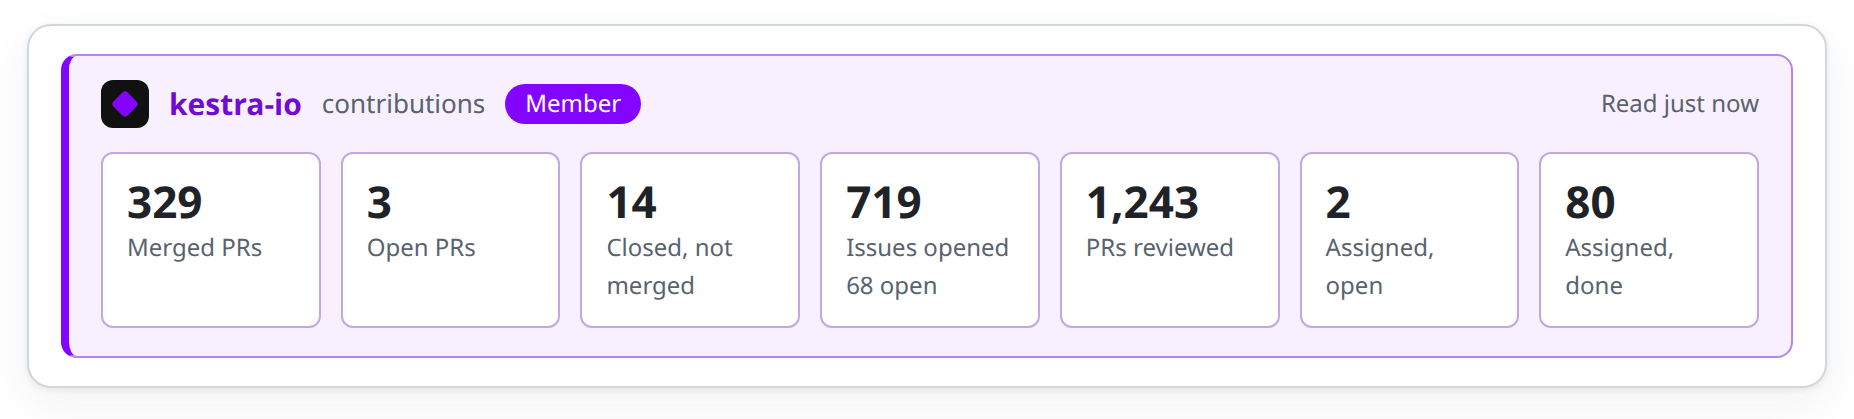
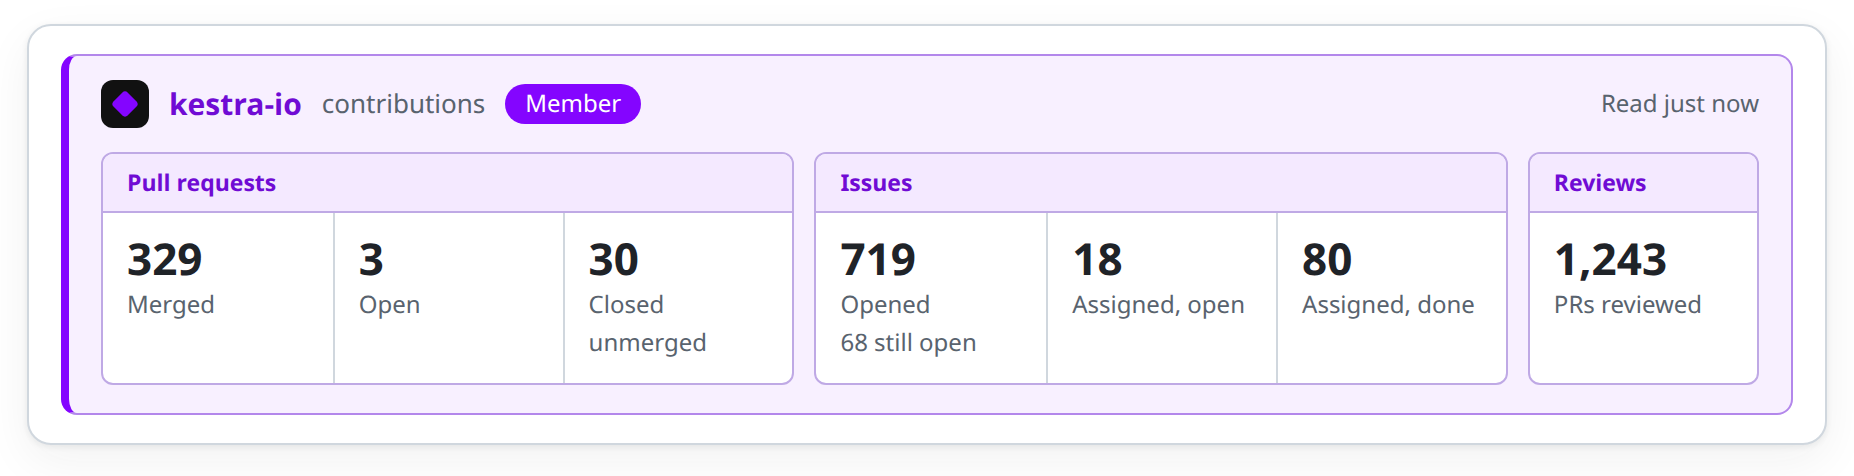
fix(profiles): group the profile panel's numbers into pull requests, issues and reviews
Seven tiles in a row did not say what each number counted, and a label such as closed, not merged meant nothing without knowing it was about the person's pull requests.

- Group the numbers under Pull requests, Issues and Reviews, each in a box with its own heading, sized by how many tiles it holds
- Shorten the labels to what is left once the group says the rest, and add a tooltip to every tile saying exactly what it counts
- Say still open under the issues a person opened
- Update the site mock-up, the example image, the README and the changelog

diff --git a/docs/index.html b/docs/index.html
@@ -358,11 +358,14 @@
     .mock-profile .sb { color: var(--fg-muted); }
     .mock-profile .tg { padding: 0 10px; border-radius: 9999px; background: var(--b); color: #fff; font-size: 12px; font-weight: 500; line-height: 20px; }
     .mock-profile .ag { margin-left: auto; font-size: 12px; color: var(--fg-muted); }
-    .mock-profile .st { display: grid; grid-template-columns: repeat(7, minmax(0, 1fr)); gap: 10px; margin-top: 12px; }
-    .mock-profile .tl { padding: 10px 12px; border: 1px solid color-mix(in srgb, var(--b) 22%, var(--border)); border-radius: 6px; background: var(--bg-card); }
+    .mock-profile .st { display: flex; flex-wrap: wrap; gap: 10px; margin-top: 12px; }
+    .mock-profile .gr { display: flex; flex-direction: column; flex: var(--n) 1 calc(var(--n) * 100px); min-width: 0; border: 1px solid color-mix(in srgb, var(--b) 22%, var(--border)); border-radius: 6px; background: var(--bg-card); overflow: hidden; }
+    .mock-profile .gh2 { padding: 5px 12px; border-bottom: 1px solid color-mix(in srgb, var(--b) 22%, var(--border)); background: color-mix(in srgb, var(--b) 9%, var(--bg-card)); font-size: 11.5px; font-weight: 600; color: color-mix(in srgb, var(--b) 80%, var(--fg)); }
+    .mock-profile .ts { flex: 1; display: grid; grid-template-columns: repeat(var(--n), minmax(0, 1fr)); }
+    .mock-profile .tl { padding: 9px 12px 10px; }
+    .mock-profile .tl + .tl { border-left: 1px solid var(--border); }
     .mock-profile .nm { display: block; font-size: 22px; font-weight: 600; line-height: 1.25; font-variant-numeric: tabular-nums; }
     .mock-profile .lb { display: block; font-size: 12px; color: var(--fg-muted); }
-    .mock-profile .tl.z .nm { color: var(--fg-muted); font-weight: 400; }
     .mock-omni { padding: 8px 0; overflow: hidden; }
     .mock-omni .bar { display: flex; align-items: center; gap: 10px; margin: 0 8px 6px; padding: 7px 12px; border-radius: 9999px; background: var(--bg-muted); font-size: 14px; }
     .mock-omni .kw { padding: 2px 10px; border-radius: 9999px; background: var(--info-bg); color: var(--accent); font-size: 12.5px; font-weight: 600; white-space: nowrap; }
@@ -583,12 +586,14 @@
       <p class="example-caption">The card belongs to the third row, opened by pressing its button, and priya-s is a member of the organization. The limit is 1 here, so the amber count says four issues are assigned and three pull requests are open; it fills in when that second number is zero.</p>
 
       <h3 style="margin-top:28px">Profile panel</h3>
-      <p class="muted" style="font-size:14px">At the top of a person's profile, a panel for each organization you name, in that organization's colours where it has some. It shows what the person has done there: pull requests merged, open and closed without merging, issues opened and how many are still open, pull requests reviewed, and issues assigned to them, open and done, each number linking to the matching GitHub search. A status beside the name says whether they are a member of the organization, a regular contributor or a contributor. It is read once per person and organization when the profile opens, in one request, and kept until the tab is closed. Off by default; name the organizations in the settings.</p>
+      <p class="muted" style="font-size:14px">At the top of a person's profile, a panel for each organization you name, in that organization's colours where it has some. It shows what the person has done there: in three groups, pull requests (merged, open, closed unmerged), issues (opened with how many are still open, assigned and open, assigned and done) and reviews, each number linking to the matching GitHub search. A status beside the name says whether they are a member of the organization, a regular contributor or a contributor. It is read once per person and organization when the profile opens, in one request, and kept until the tab is closed. Off by default; name the organizations in the settings.</p>
       <div class="panel gh-card mock-profile" id="ex-profile" style="max-width:900px;padding:14px 16px">
         <div class="org">
           <div class="hd"><span class="lg"><i></i></span><span class="ti">kestra-io</span><span class="sb">contributions</span><span class="tg">Member</span><span class="ag">Read just now</span></div>
           <div class="st">
-            <div class="tl"><span class="nm">329</span><span class="lb">Merged PRs</span></div><div class="tl"><span class="nm">3</span><span class="lb">Open PRs</span></div><div class="tl"><span class="nm">14</span><span class="lb">Closed, not merged</span></div><div class="tl"><span class="nm">719</span><span class="lb">Issues opened</span><span class="lb">68 open</span></div><div class="tl"><span class="nm">1,243</span><span class="lb">PRs reviewed</span></div><div class="tl"><span class="nm">2</span><span class="lb">Assigned, open</span></div><div class="tl"><span class="nm">80</span><span class="lb">Assigned, done</span></div>
+            <div class="gr" style="--n:3"><div class="gh2">Pull requests</div><div class="ts" style="--n:3"><div class="tl"><span class="nm">329</span><span class="lb">Merged</span></div><div class="tl"><span class="nm">3</span><span class="lb">Open</span></div><div class="tl"><span class="nm">30</span><span class="lb">Closed unmerged</span></div></div></div>
+            <div class="gr" style="--n:3"><div class="gh2">Issues</div><div class="ts" style="--n:3"><div class="tl"><span class="nm">719</span><span class="lb">Opened</span><span class="lb">68 still open</span></div><div class="tl"><span class="nm">18</span><span class="lb">Assigned, open</span></div><div class="tl"><span class="nm">80</span><span class="lb">Assigned, done</span></div></div></div>
+            <div class="gr" style="--n:1"><div class="gh2">Reviews</div><div class="ts" style="--n:1"><div class="tl"><span class="nm">1,243</span><span class="lb">PRs reviewed</span></div></div></div>
           </div>
         </div>
       </div>

diff --git a/content.js b/content.js
@@ -1366,15 +1366,23 @@
   // Kept for as long as the tab is open, like the contributor reads: "org/login" -> { at, data, error }.
   const profileCache = new Map();
   const profilePending = new Map();
-  // The tiles: label, key of the answer, the terms behind the number, and the note under it.
-  const PROFILE_TILES = [
-    ["Merged PRs", "merged", (l) => `is:pr is:merged author:${l}`],
-    ["Open PRs", "open", (l) => `is:pr is:open author:${l}`],
-    ["Closed, not merged", "closed", (l) => `is:pr is:closed is:unmerged author:${l}`],
-    ["Issues opened", "issues", (l) => `is:issue author:${l}`],
-    ["PRs reviewed", "reviewed", (l) => `is:pr reviewed-by:${l} -author:${l}`],
-    ["Assigned, open", "assignedOpen", (l) => `is:issue is:open assignee:${l}`],
-    ["Assigned, done", "assignedDone", (l) => `is:issue is:closed reason:completed assignee:${l}`]
+  // The numbers come in three groups, so each reads as part of one question: what they did with pull
+  // requests, what they did with issues, and what they reviewed. A tile is label, key of the answer, what
+  // it counts for the tooltip, and the terms behind the number.
+  const PROFILE_GROUPS = [
+    ["Pull requests", [
+      ["Merged", "merged", "Pull requests they opened that were merged", (l) => `is:pr is:merged author:${l}`],
+      ["Open", "open", "Pull requests they opened that are still open", (l) => `is:pr is:open author:${l}`],
+      ["Closed unmerged", "closed", "Pull requests they opened that were closed without being merged", (l) => `is:pr is:closed is:unmerged author:${l}`]
+    ]],
+    ["Issues", [
+      ["Opened", "issues", "Issues they opened", (l) => `is:issue author:${l}`],
+      ["Assigned, open", "assignedOpen", "Issues assigned to them that are still open", (l) => `is:issue is:open assignee:${l}`],
+      ["Assigned, done", "assignedDone", "Issues assigned to them that were closed as completed", (l) => `is:issue is:closed reason:completed assignee:${l}`]
+    ]],
+    ["Reviews", [
+      ["PRs reviewed", "reviewed", "Pull requests by other people that they reviewed", (l) => `is:pr reviewed-by:${l} -author:${l}`]
+    ]]
   ];
 
   function profileOrgs() {
@@ -1493,33 +1501,46 @@
       return;
     }
 
-    const grid = document.createElement("div");
-    grid.className = "gsf-profile-stats";
-    for (const [label, key, terms] of PROFILE_TILES) {
-      const value = entry.data[key];
-      const tile = document.createElement("a");
-      tile.className = "gsf-profile-tile";
-      tile.href = profileUrl(org, terms(login));
-      tile.target = "_blank";
-      tile.rel = "noopener";
-      if (!value) tile.dataset.zero = "1";
-      const number = document.createElement("span");
-      number.className = "gsf-profile-num";
-      number.textContent = value === null || value === undefined ? "-" : value.toLocaleString();
-      const name = document.createElement("span");
-      name.className = "gsf-profile-label";
-      name.textContent = label;
-      tile.append(number, name);
-      // Of the issues opened, how many are still open.
-      if (key === "issues" && entry.data.issuesOpen !== null && entry.data.issuesOpen !== undefined) {
-        const note = document.createElement("span");
-        note.className = "gsf-profile-label";
-        note.textContent = `${entry.data.issuesOpen.toLocaleString()} open`;
-        tile.append(note);
+    const stats = document.createElement("div");
+    stats.className = "gsf-profile-stats";
+    for (const [title, tiles] of PROFILE_GROUPS) {
+      const group = document.createElement("div");
+      group.className = "gsf-profile-group";
+      group.style.setProperty("--n", String(tiles.length));
+      const heading = document.createElement("div");
+      heading.className = "gsf-profile-grouphead";
+      heading.textContent = title;
+      const row = document.createElement("div");
+      row.className = "gsf-profile-tiles";
+      for (const [label, key, what, terms] of tiles) {
+        const value = entry.data[key];
+        const tile = document.createElement("a");
+        tile.className = "gsf-profile-tile";
+        tile.href = profileUrl(org, terms(login));
+        tile.target = "_blank";
+        tile.rel = "noopener";
+        tile.title = what;
+        if (!value) tile.dataset.zero = "1";
+        const number = document.createElement("span");
+        number.className = "gsf-profile-num";
+        number.textContent = value === null || value === undefined ? "-" : value.toLocaleString();
+        const name = document.createElement("span");
+        name.className = "gsf-profile-label";
+        name.textContent = label;
+        tile.append(number, name);
+        // Of the issues opened, how many are still open.
+        if (key === "issues" && entry.data.issuesOpen !== null && entry.data.issuesOpen !== undefined) {
+          const note = document.createElement("span");
+          note.className = "gsf-profile-label";
+          note.textContent = `${entry.data.issuesOpen.toLocaleString()} still open`;
+          tile.append(note);
+        }
+        row.append(tile);
       }
-      grid.append(tile);
+      group.append(heading, row);
+      stats.append(group);
     }
-    block.append(grid);
+    block.append(stats);
   }
 
   async function profileLoad(block, org, login, force) {

diff --git a/content.css b/content.css
@@ -1031,25 +1031,49 @@ div:has(> .gsf-progress) {
   color: var(--fgColor-default);
 }
 .gsf-profile-stats {
-  display: grid;
-  grid-template-columns: repeat(auto-fit, minmax(128px, 1fr));
+  display: flex;
+  flex-wrap: wrap;
   gap: 10px;
   margin-top: 12px;
+}
+/* One group of numbers: a heading over its tiles, in a box of its own, sized by how many tiles it holds. */
+.gsf-profile-group {
+  display: flex;
+  flex-direction: column;
+  flex: var(--n) 1 calc(var(--n) * 100px);
+  min-width: 0;
+  border: 1px solid color-mix(in srgb, var(--gsf-brand) 22%, var(--borderColor-default));
+  border-radius: 6px;
+  background: var(--bgColor-default);
+  overflow: hidden;
+}
+.gsf-profile-grouphead {
+  padding: 5px 12px;
+  border-bottom: 1px solid color-mix(in srgb, var(--gsf-brand) 22%, var(--borderColor-default));
+  background: color-mix(in srgb, var(--gsf-brand) 9%, var(--bgColor-default));
+  font-size: 11.5px;
+  font-weight: 600;
+  color: color-mix(in srgb, var(--gsf-brand) 80%, var(--fgColor-default));
+}
+.gsf-profile-tiles {
+  flex: 1;
+  display: grid;
+  grid-template-columns: repeat(var(--n), minmax(0, 1fr));
 }
 .gsf-profile-tile {
   display: flex;
   flex-direction: column;
   gap: 1px;
-  padding: 10px 12px;
-  border: 1px solid color-mix(in srgb, var(--gsf-brand) 22%, var(--borderColor-default));
-  border-radius: 6px;
-  background: var(--bgColor-default);
+  padding: 9px 12px 10px;
   color: inherit !important;
   text-decoration: none !important;
-  transition: border-color 0.1s;
+  transition: background 0.1s;
+}
+.gsf-profile-tile + .gsf-profile-tile {
+  border-left: 1px solid var(--borderColor-muted);
 }
 .gsf-profile-tile:hover {
-  border-color: var(--gsf-brand);
+  background: color-mix(in srgb, var(--gsf-brand) 6%, var(--bgColor-default));
 }
 .gsf-profile-num {
   font-size: 22px;

diff --git a/CHANGELOG.md b/CHANGELOG.md
@@ -6,7 +6,7 @@ All notable changes to this project are documented here. The format follows [Kee
 
 ### Added
 
-- **Organization panel**: a panel at the top of a person's profile for each organization you name, in the organization's colours where it has some (violet for `kestra-io`), with the pull requests they merged, have open and had closed without merging, the issues they opened and how many are still open, the pull requests they reviewed and the issues assigned to them, open and done, each linking to the matching search, and a status for membership or experience. Read once per person and organization in one request and kept until the tab is closed. Off by default, set on the Contributors tab.
+- **Organization panel**: a panel at the top of a person's profile for each organization you name, in the organization's colours where it has some (violet for `kestra-io`), in three groups, pull requests (merged, open, closed unmerged), issues (opened with how many are still open, assigned and open, assigned and done) and reviews, each number linking to the matching search with a tooltip saying what it counts, and a status for membership or experience. Read once per person and organization in one request and kept until the tab is closed. Off by default, set on the Contributors tab.
 - **Contributor status**: the contributor load mark is now a button. Pressed, it reads the person and becomes their status: new contributor (no merged pull request in the organization), first PR here (merged elsewhere in the organization, none in this repository), returning, or regular from a number of merged pull requests in the repository you set, 5 by default. The card it opens has merged, open and closed-without-merge pull requests and assigned and finished issues, each for the repository and for the whole organization and each linking to the matching search, above the open issues the person holds with the pull request that closes each.
 - When a person cannot be looked up, the card and the button's tooltip now say why, a missing token, a rejected one or whatever GitHub answered, and a count GitHub did not return shows as a dash instead of failing the whole read.
 - The two columns of counts in the card are headed **This repo** and **Organization**, with the full names on hover, since a repository and its organization often have near-identical names.

diff --git a/README.md b/README.md
@@ -232,7 +232,7 @@ Nothing about a person is read until a button is pressed, apart from whether the
 
 Opening a person's profile, the first thing you want to know is often what they have done in your organization. With **Organization panel** on and one or more organizations named on the **Contributors** tab, a panel sits at the very top of the profile for each of them, coloured after the organization where it has a colour of its own, with the organization's avatar and name.
 
-It shows seven numbers, each a link to the matching GitHub search: pull requests merged, open and closed without merging, issues opened (with how many are still open), pull requests reviewed, and issues assigned to them, open and done. Beside the name a status says **Member** for people in the organization, otherwise **Regular contributor** from the regular limit you set for the contributor button (5 merged pull requests by default), **Contributor**, **No merged PR yet** or **No activity yet**. The panel says how old its numbers are and has a refresh button beside that.
+It shows seven numbers in three groups, each a link to the matching GitHub search and each with a tooltip saying what it counts: **Pull requests** (merged, open, closed unmerged), **Issues** (opened with how many are still open, assigned and open, assigned and done) and **Reviews** (pull requests by other people they reviewed). Beside the name a status says **Member** for people in the organization, otherwise **Regular contributor** from the regular limit you set for the contributor button (5 merged pull requests by default), **Contributor**, **No merged PR yet** or **No activity yet**. The panel says how old its numbers are and has a refresh button beside that.
 
 Each person and organization is read once, in one request, when the profile opens, and kept until the tab is closed, so going back to a profile costs nothing. Up to three organizations can be named. The panel appears only on a person's own profile, never on an organization's.
 
